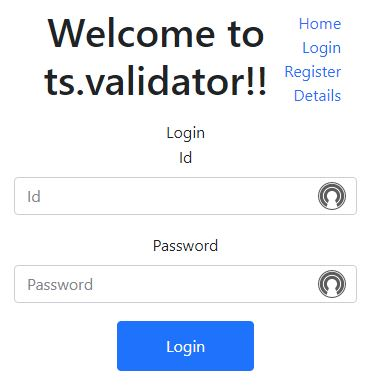
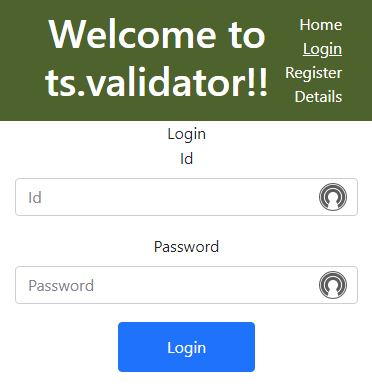
added styling to header of app. changed images in readme.

diff --git a/src/app/app.component.html b/src/app/app.component.html
@@ -1,4 +1,4 @@
-<div style="text-align:center;">
+<div style="text-align:center;" class="header">
     <nav class="navbar navbar-default">
         <div class="container-fluid">
             <div class="navbar-header" style="width: 100%;">

diff --git a/src/app/app.component.css b/src/app/app.component.css
@@ -1,0 +1,8 @@
+.header {
+    background-color: darkolivegreen;
+    color: white;
+}
+
+a {
+    color: white;
+}

diff --git a/README.md b/README.md
@@ -4,8 +4,8 @@
 
 [ts.validator framework on GitHub](https://github.com/VeritasSoftware/ts.validator)
 
-Initial       | After validation
-------------- | ----------------
+Initial      | After validation
+------------ | ----------------
 ![Login initial](https://github.com/VeritasSoftware/ts.validator.app/blob/master/src/Login_1.jpg)|![Login validation](https://github.com/VeritasSoftware/ts.validator.app/blob/master/src/Login_2.jpg)
 
 *   The business rules around model validation remain centralized in the validation service.
